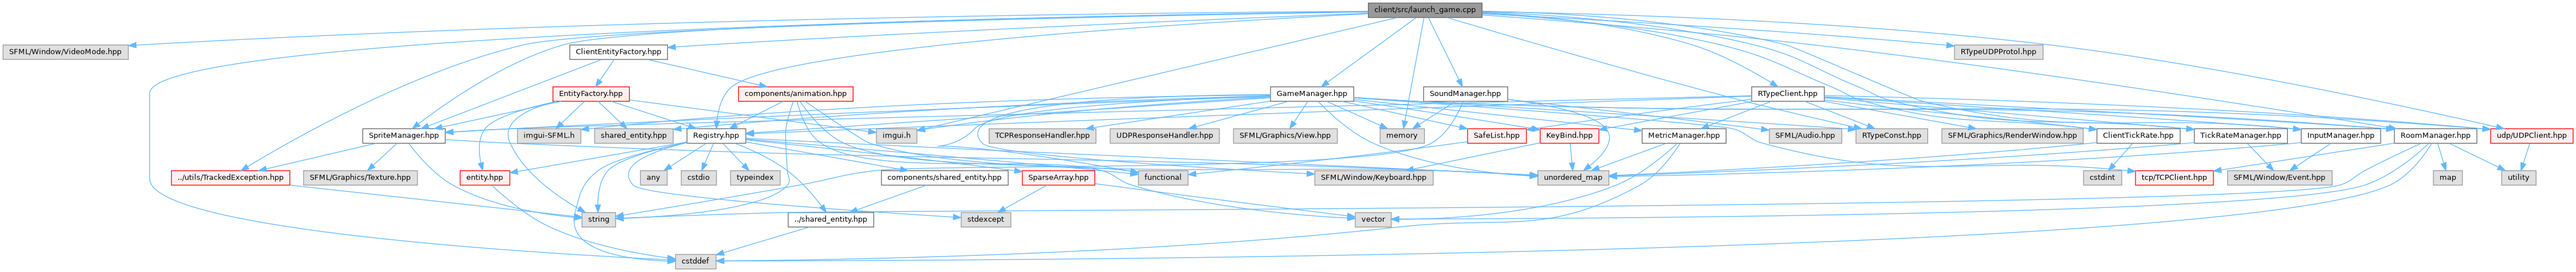
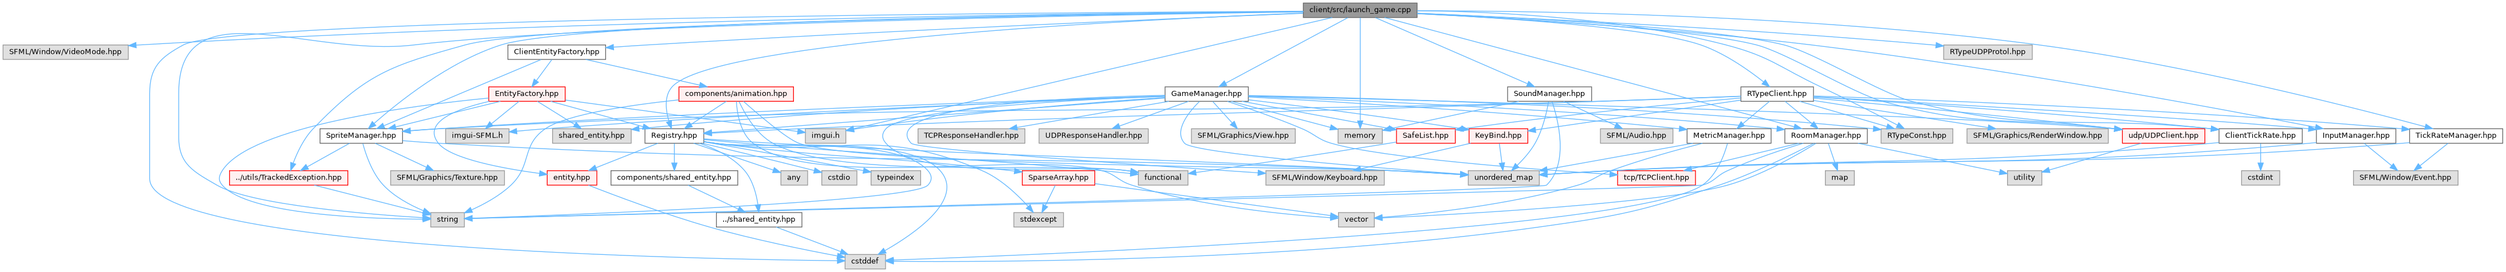
Deploying to gh-pages from @ ManuelR-T/R-Type@fd4c1e79d81dee73ee490ee9a5f1fa5da7e2a8f2 🚀

diff --git a/db/dfe/launch__game_8cpp.html b/db/dfe/launch__game_8cpp.html
@@ -79,6 +79,7 @@ $(function() {
 <div class="textblock"><code>#include &lt;SFML/Window/VideoMode.hpp&gt;</code><br />
 <code>#include &lt;cstddef&gt;</code><br />
 <code>#include &lt;memory&gt;</code><br />
+<code>#include &lt;string&gt;</code><br />
 <code>#include &quot;<a class="el" href="../../d7/da1/ClientEntityFactory_8hpp_source.html">ClientEntityFactory.hpp</a>&quot;</code><br />
 <code>#include &quot;<a class="el" href="../../d8/d5e/ClientTickRate_8hpp_source.html">ClientTickRate.hpp</a>&quot;</code><br />
 <code>#include &quot;<a class="el" href="../../d6/d27/GameManager_8hpp_source.html">GameManager.hpp</a>&quot;</code><br />
@@ -99,56 +100,56 @@ Include dependency graph for launch_game.cpp:</div>
 <div class="dyncontent">
 <div class="center"><img src="../../d4/d6a/launch__game_8cpp__incl.png" border="0" usemap="#aclient_2src_2launch__game_8cpp" alt=""/></div>
 <map name="aclient_2src_2launch__game_8cpp" id="aclient_2src_2launch__game_8cpp">
-<area shape="rect" title=" " alt="" coords="2389,5,2587,31"/>
+<area shape="rect" title=" " alt="" coords="2275,5,2474,31"/>
 <area shape="rect" title=" " alt="" coords="5,79,224,104"/>
-<area shape="rect" title=" " alt="" coords="1179,445,1250,471"/>
-<area shape="rect" title=" " alt="" coords="2409,225,2487,251"/>
-<area shape="rect" href="../../d7/da1/ClientEntityFactory_8hpp.html" title=" " alt="" coords="995,79,1165,104"/>
-<area shape="rect" href="../../db/dd1/Registry_8hpp.html" title=" " alt="" coords="1199,225,1302,251"/>
-<area shape="rect" href="../../d2/dbe/SpriteManager_8hpp.html" title=" " alt="" coords="633,225,777,251"/>
-<area shape="rect" href="../../d7/dc4/TrackedException_8hpp.html" title=" " alt="" coords="299,299,506,324"/>
-<area shape="rect" title=" " alt="" coords="1530,225,1601,251"/>
-<area shape="rect" href="../../d8/d5e/ClientTickRate_8hpp.html" title=" " alt="" coords="3661,225,3806,251"/>
-<area shape="rect" href="../../d6/d27/GameManager_8hpp.html" title=" " alt="" coords="2218,152,2363,177"/>
-<area shape="rect" title=" " alt="" coords="3240,225,3365,251"/>
-<area shape="rect" href="../../d3/d6b/client_2src_2RoomManager_8hpp.html" title=" " alt="" coords="4180,225,4324,251"/>
-<area shape="rect" href="../../d5/d33/UDPClient_8hpp.html" title=" " alt="" coords="4348,225,4492,251"/>
-<area shape="rect" href="../../d1/d6e/InputManager_8hpp.html" title=" " alt="" coords="4017,225,4156,251"/>
-<area shape="rect" href="../../da/d70/RTypeClient_8hpp.html" title=" " alt="" coords="3058,152,3185,177"/>
-<area shape="rect" href="../../da/dcb/TickRateManager_8hpp.html" title=" " alt="" coords="3831,225,3993,251"/>
-<area shape="rect" title=" " alt="" coords="3412,79,3567,104"/>
-<area shape="rect" href="../../d6/d9e/SoundManager_8hpp.html" title=" " alt="" coords="2485,152,2632,177"/>
-<area shape="rect" href="../../db/deb/EntityFactory_8hpp.html" title=" " alt="" coords="965,152,1099,177"/>
-<area shape="rect" href="../../d6/d5a/animation_8hpp.html" title=" " alt="" coords="1289,152,1489,177"/>
-<area shape="rect" title=" " alt="" coords="1016,372,1075,397"/>
-<area shape="rect" href="../../db/de2/entity_8hpp.html" title=" " alt="" coords="803,299,890,324"/>
-<area shape="rect" title=" " alt="" coords="1038,225,1175,251"/>
-<area shape="rect" title=" " alt="" coords="903,225,1014,251"/>
+<area shape="rect" title=" " alt="" coords="1475,445,1546,471"/>
+<area shape="rect" title=" " alt="" coords="2336,225,2413,251"/>
+<area shape="rect" title=" " alt="" coords="752,372,811,397"/>
+<area shape="rect" href="../../d7/da1/ClientEntityFactory_8hpp.html" title=" " alt="" coords="887,79,1057,104"/>
+<area shape="rect" href="../../db/dd1/Registry_8hpp.html" title=" " alt="" coords="1126,225,1229,251"/>
+<area shape="rect" href="../../d2/dbe/SpriteManager_8hpp.html" title=" " alt="" coords="559,225,703,251"/>
+<area shape="rect" href="../../d7/dc4/TrackedException_8hpp.html" title=" " alt="" coords="401,299,607,324"/>
+<area shape="rect" title=" " alt="" coords="1406,225,1477,251"/>
+<area shape="rect" href="../../d8/d5e/ClientTickRate_8hpp.html" title=" " alt="" coords="3874,225,4019,251"/>
+<area shape="rect" href="../../d6/d27/GameManager_8hpp.html" title=" " alt="" coords="2034,152,2179,177"/>
+<area shape="rect" title=" " alt="" coords="3284,225,3409,251"/>
+<area shape="rect" href="../../d3/d6b/client_2src_2RoomManager_8hpp.html" title=" " alt="" coords="3116,225,3260,251"/>
+<area shape="rect" href="../../d5/d33/UDPClient_8hpp.html" title=" " alt="" coords="3705,225,3849,251"/>
+<area shape="rect" href="../../d1/d6e/InputManager_8hpp.html" title=" " alt="" coords="4044,225,4183,251"/>
+<area shape="rect" href="../../da/d70/RTypeClient_8hpp.html" title=" " alt="" coords="3039,152,3166,177"/>
+<area shape="rect" href="../../da/dcb/TickRateManager_8hpp.html" title=" " alt="" coords="4207,225,4369,251"/>
+<area shape="rect" title=" " alt="" coords="3393,79,3548,104"/>
+<area shape="rect" href="../../d6/d9e/SoundManager_8hpp.html" title=" " alt="" coords="2632,152,2779,177"/>
+<area shape="rect" href="../../db/deb/EntityFactory_8hpp.html" title=" " alt="" coords="853,152,987,177"/>
+<area shape="rect" href="../../d6/d5a/animation_8hpp.html" title=" " alt="" coords="1185,152,1385,177"/>
+<area shape="rect" href="../../db/de2/entity_8hpp.html" title=" " alt="" coords="955,299,1042,324"/>
+<area shape="rect" title=" " alt="" coords="965,225,1102,251"/>
+<area shape="rect" title=" " alt="" coords="778,225,889,251"/>
 <area shape="rect" href="../../d9/db8/SparseArray_8hpp.html" title=" " alt="" coords="1785,299,1911,324"/>
-<area shape="rect" title=" " alt="" coords="1678,372,1765,397"/>
-<area shape="rect" href="../../db/d29/components_2shared__entity_8hpp.html" title=" " alt="" coords="1539,299,1760,324"/>
-<area shape="rect" href="../../df/dc5/shared__entity_8hpp.html" title=" " alt="" coords="1376,372,1525,397"/>
-<area shape="rect" title=" " alt="" coords="1118,299,1165,324"/>
-<area shape="rect" title=" " alt="" coords="1189,299,1251,324"/>
+<area shape="rect" title=" " alt="" coords="1770,372,1857,397"/>
+<area shape="rect" href="../../db/d29/components_2shared__entity_8hpp.html" title=" " alt="" coords="1067,299,1288,324"/>
+<area shape="rect" href="../../df/dc5/shared__entity_8hpp.html" title=" " alt="" coords="1251,372,1400,397"/>
+<area shape="rect" title=" " alt="" coords="1363,299,1410,324"/>
+<area shape="rect" title=" " alt="" coords="1435,299,1496,324"/>
 <area shape="rect" title=" " alt="" coords="1987,299,2074,324"/>
-<area shape="rect" title=" " alt="" coords="1275,299,1362,324"/>
-<area shape="rect" title=" " alt="" coords="2685,299,2809,324"/>
-<area shape="rect" title=" " alt="" coords="2366,372,2429,397"/>
-<area shape="rect" title=" " alt="" coords="530,299,729,324"/>
-<area shape="rect" title=" " alt="" coords="3637,299,3704,324"/>
-<area shape="rect" title=" " alt="" coords="2153,225,2335,251"/>
-<area shape="rect" title=" " alt="" coords="2295,299,2502,324"/>
-<area shape="rect" href="../../d6/d50/KeyBind_8hpp.html" title=" " alt="" coords="2689,225,2791,251"/>
-<area shape="rect" href="../../d3/dd0/MetricManager_8hpp.html" title=" " alt="" coords="2867,225,3013,251"/>
-<area shape="rect" href="../../d4/d72/TCPClient_8hpp.html" title=" " alt="" coords="3728,299,3864,324"/>
-<area shape="rect" href="../../d8/d5b/SafeList_8hpp.html" title=" " alt="" coords="2562,225,2665,251"/>
-<area shape="rect" title=" " alt="" coords="1727,225,1913,251"/>
-<area shape="rect" title=" " alt="" coords="1938,225,2129,251"/>
-<area shape="rect" title=" " alt="" coords="4248,299,4299,324"/>
-<area shape="rect" title=" " alt="" coords="4367,299,4427,324"/>
-<area shape="rect" title=" " alt="" coords="3889,299,4071,324"/>
-<area shape="rect" title=" " alt="" coords="3390,225,3637,251"/>
-<area shape="rect" title=" " alt="" coords="3089,225,3215,251"/>
+<area shape="rect" title=" " alt="" coords="1521,299,1607,324"/>
+<area shape="rect" title=" " alt="" coords="2563,299,2687,324"/>
+<area shape="rect" title=" " alt="" coords="2337,372,2399,397"/>
+<area shape="rect" title=" " alt="" coords="682,299,881,324"/>
+<area shape="rect" title=" " alt="" coords="3913,299,3980,324"/>
+<area shape="rect" title=" " alt="" coords="2080,225,2261,251"/>
+<area shape="rect" title=" " alt="" coords="2210,299,2417,324"/>
+<area shape="rect" href="../../d6/d50/KeyBind_8hpp.html" title=" " alt="" coords="2565,225,2667,251"/>
+<area shape="rect" href="../../d3/dd0/MetricManager_8hpp.html" title=" " alt="" coords="2945,225,3092,251"/>
+<area shape="rect" href="../../d4/d72/TCPClient_8hpp.html" title=" " alt="" coords="2824,299,2960,324"/>
+<area shape="rect" href="../../d8/d5b/SafeList_8hpp.html" title=" " alt="" coords="2438,225,2541,251"/>
+<area shape="rect" title=" " alt="" coords="1603,225,1789,251"/>
+<area shape="rect" title=" " alt="" coords="1814,225,2005,251"/>
+<area shape="rect" title=" " alt="" coords="3187,299,3237,324"/>
+<area shape="rect" title=" " alt="" coords="3505,299,3565,324"/>
+<area shape="rect" title=" " alt="" coords="4109,299,4291,324"/>
+<area shape="rect" title=" " alt="" coords="3434,225,3681,251"/>
+<area shape="rect" title=" " alt="" coords="2794,225,2921,251"/>
 </map>
 </div>
 </div></div><!-- contents -->
